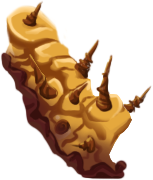
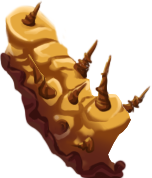
Obstacle simple

diff --git a/BTEndlessTunnel/Classes/GameLayer.cpp b/BTEndlessTunnel/Classes/GameLayer.cpp
@@ -353,9 +353,9 @@ void GameLayer::_createMap()
         x += spFloor->getContentSize().width;
     }
     
-    OBSTACLE_SIMPLE_BOT_Y = _playerStartY + _wallHeight * 0.6f;
+    OBSTACLE_SIMPLE_BOT_Y = _playerStartY + _wallHeight * 0.65f;
     OBSTACLE_DOBLE_GROUND_Y = _playerStartY + _wallHeight * 0.7f;
-    OBSTACLE_SIMPLE_TOP_Y = _playerStartY + _wallHeight * 1.3f;
+    OBSTACLE_SIMPLE_TOP_Y = _playerStartY + _wallHeight * 1.4f;
     OBSTACLE_DOBLE_AIR_Y = _playerStartY + _wallHeight * 1.8f;
     
 }

diff --git a/BTEndlessTunnel/Classes/ObstacleSimple.cpp b/BTEndlessTunnel/Classes/ObstacleSimple.cpp
@@ -10,7 +10,7 @@
 
 using namespace cocos2d;
 
-ObstacleSimple::ObstacleSimple() : BaseObstacle("muro_2.png")
+ObstacleSimple::ObstacleSimple() : BaseObstacle("muro_2b.png")
 {
     sameCollisionArea = true;
     obstacType = kSimpleObstacle;
